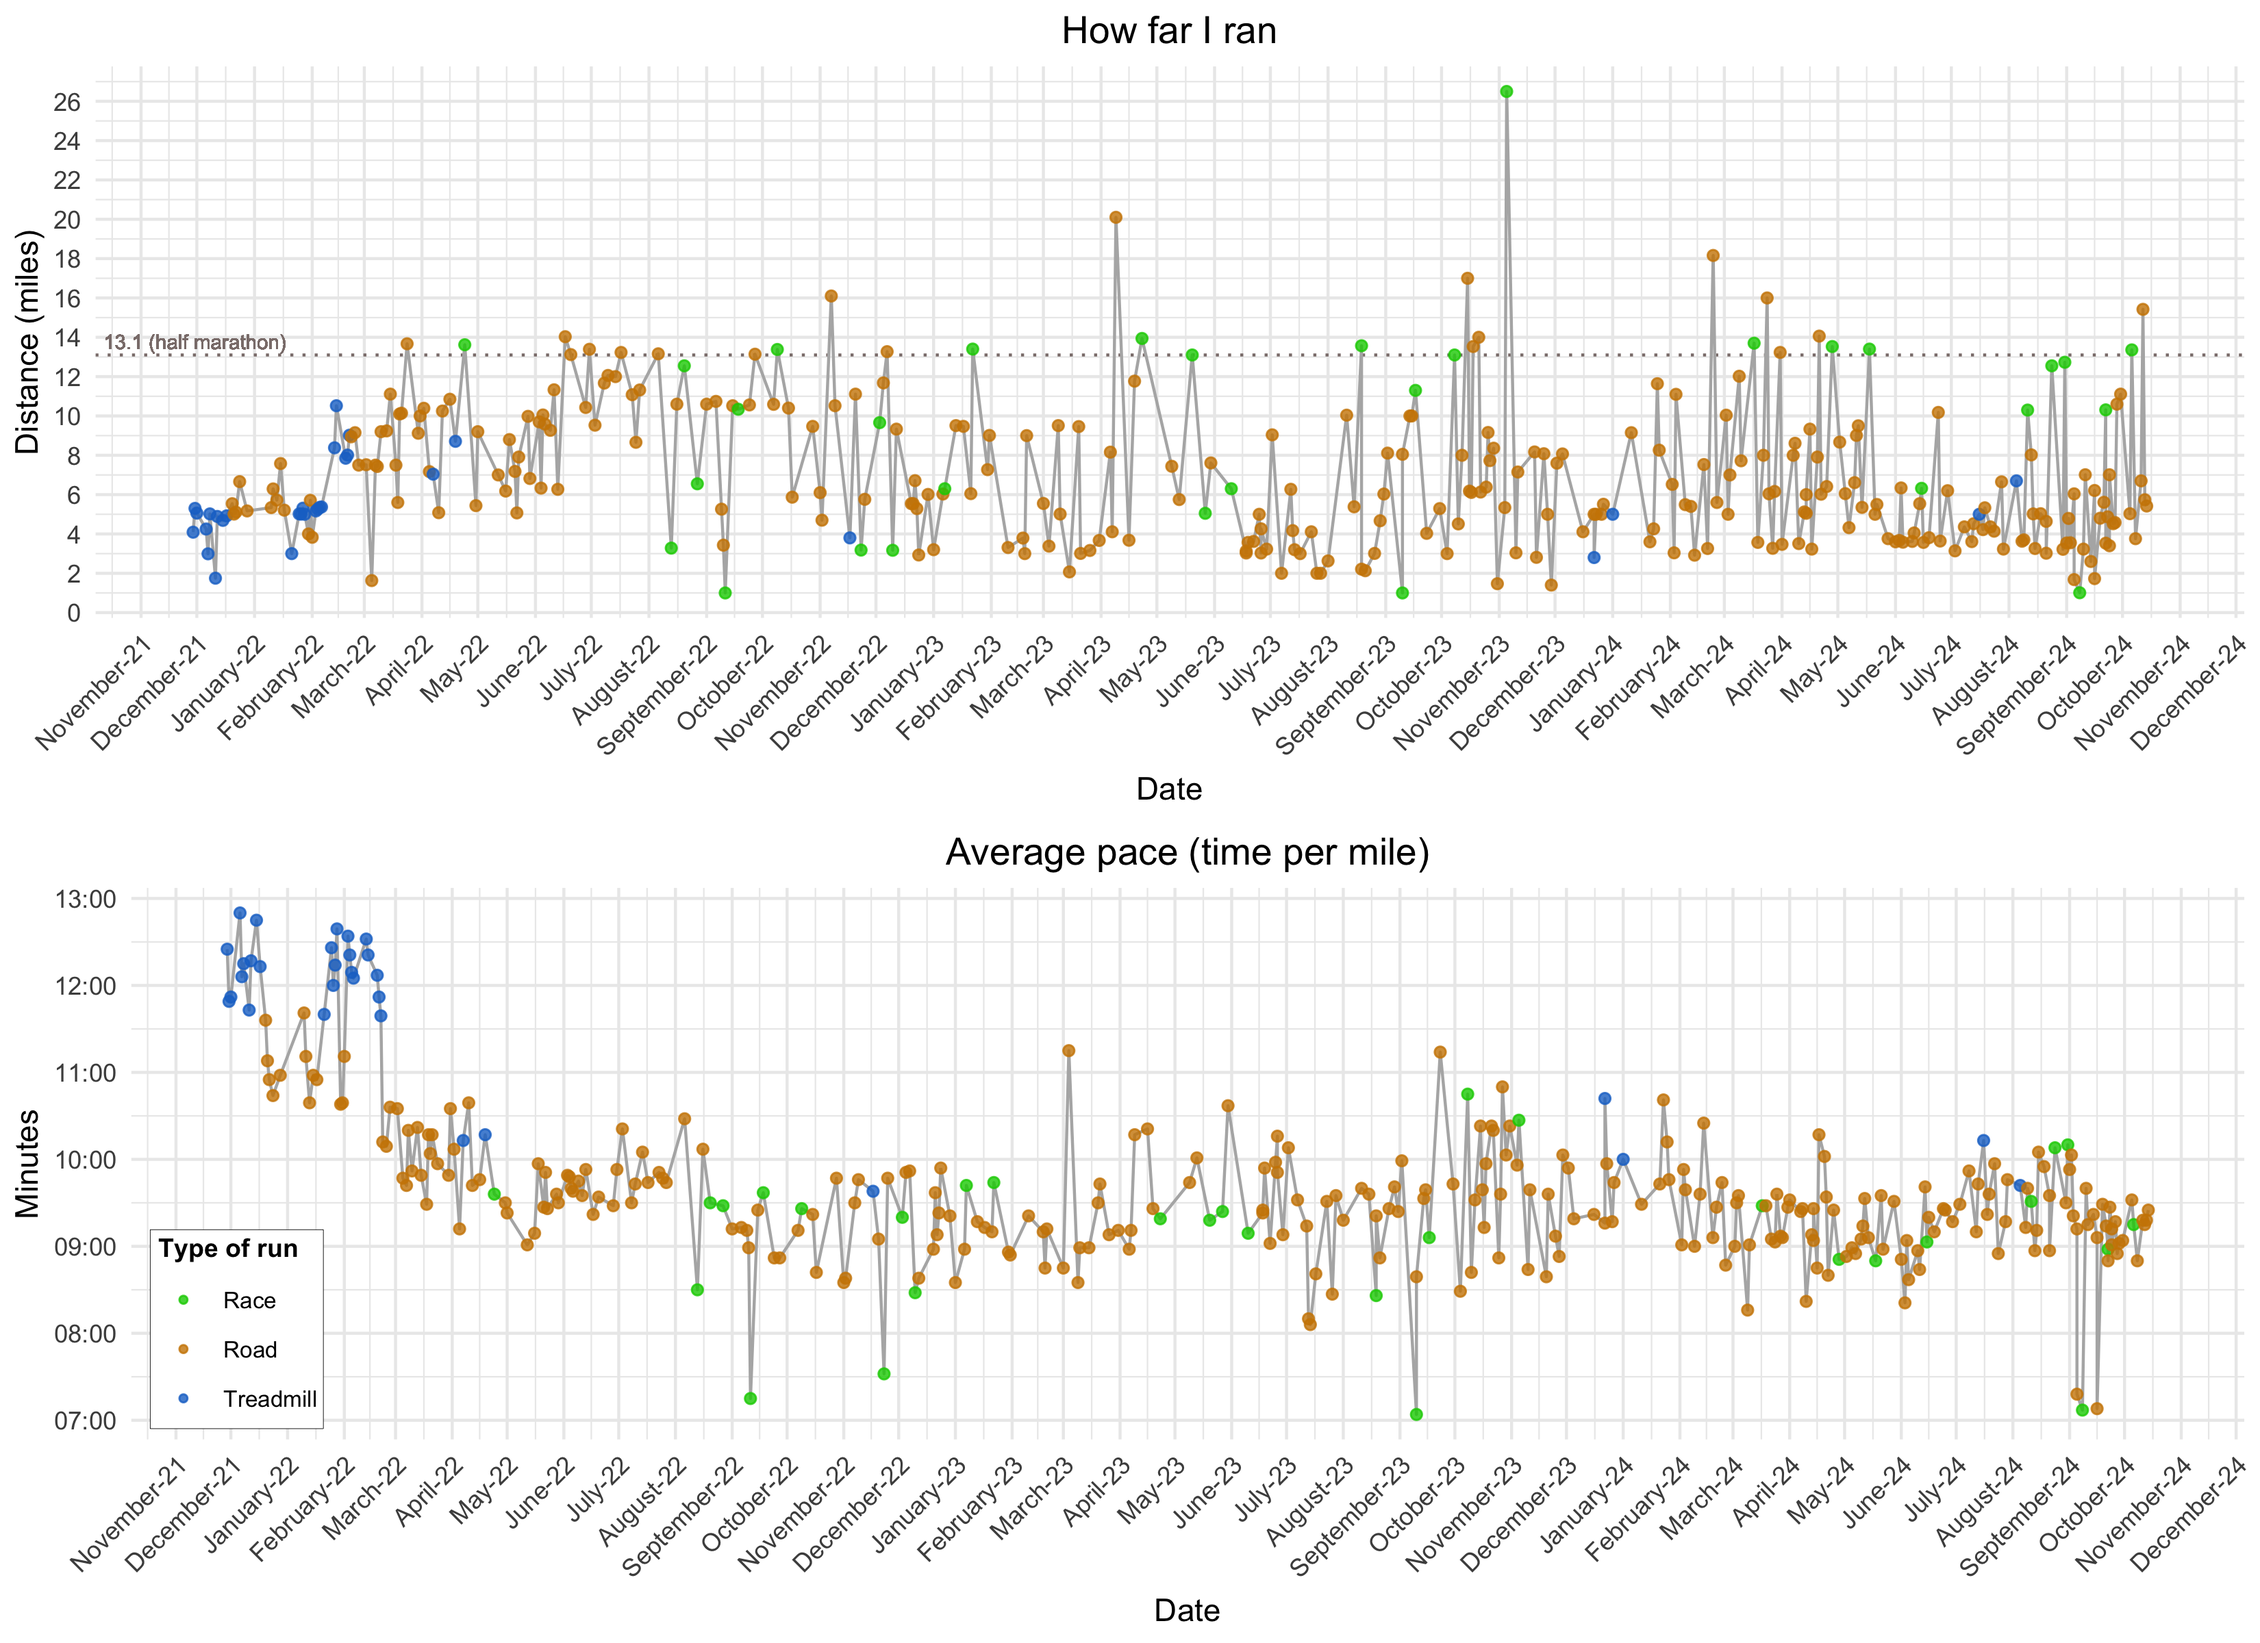
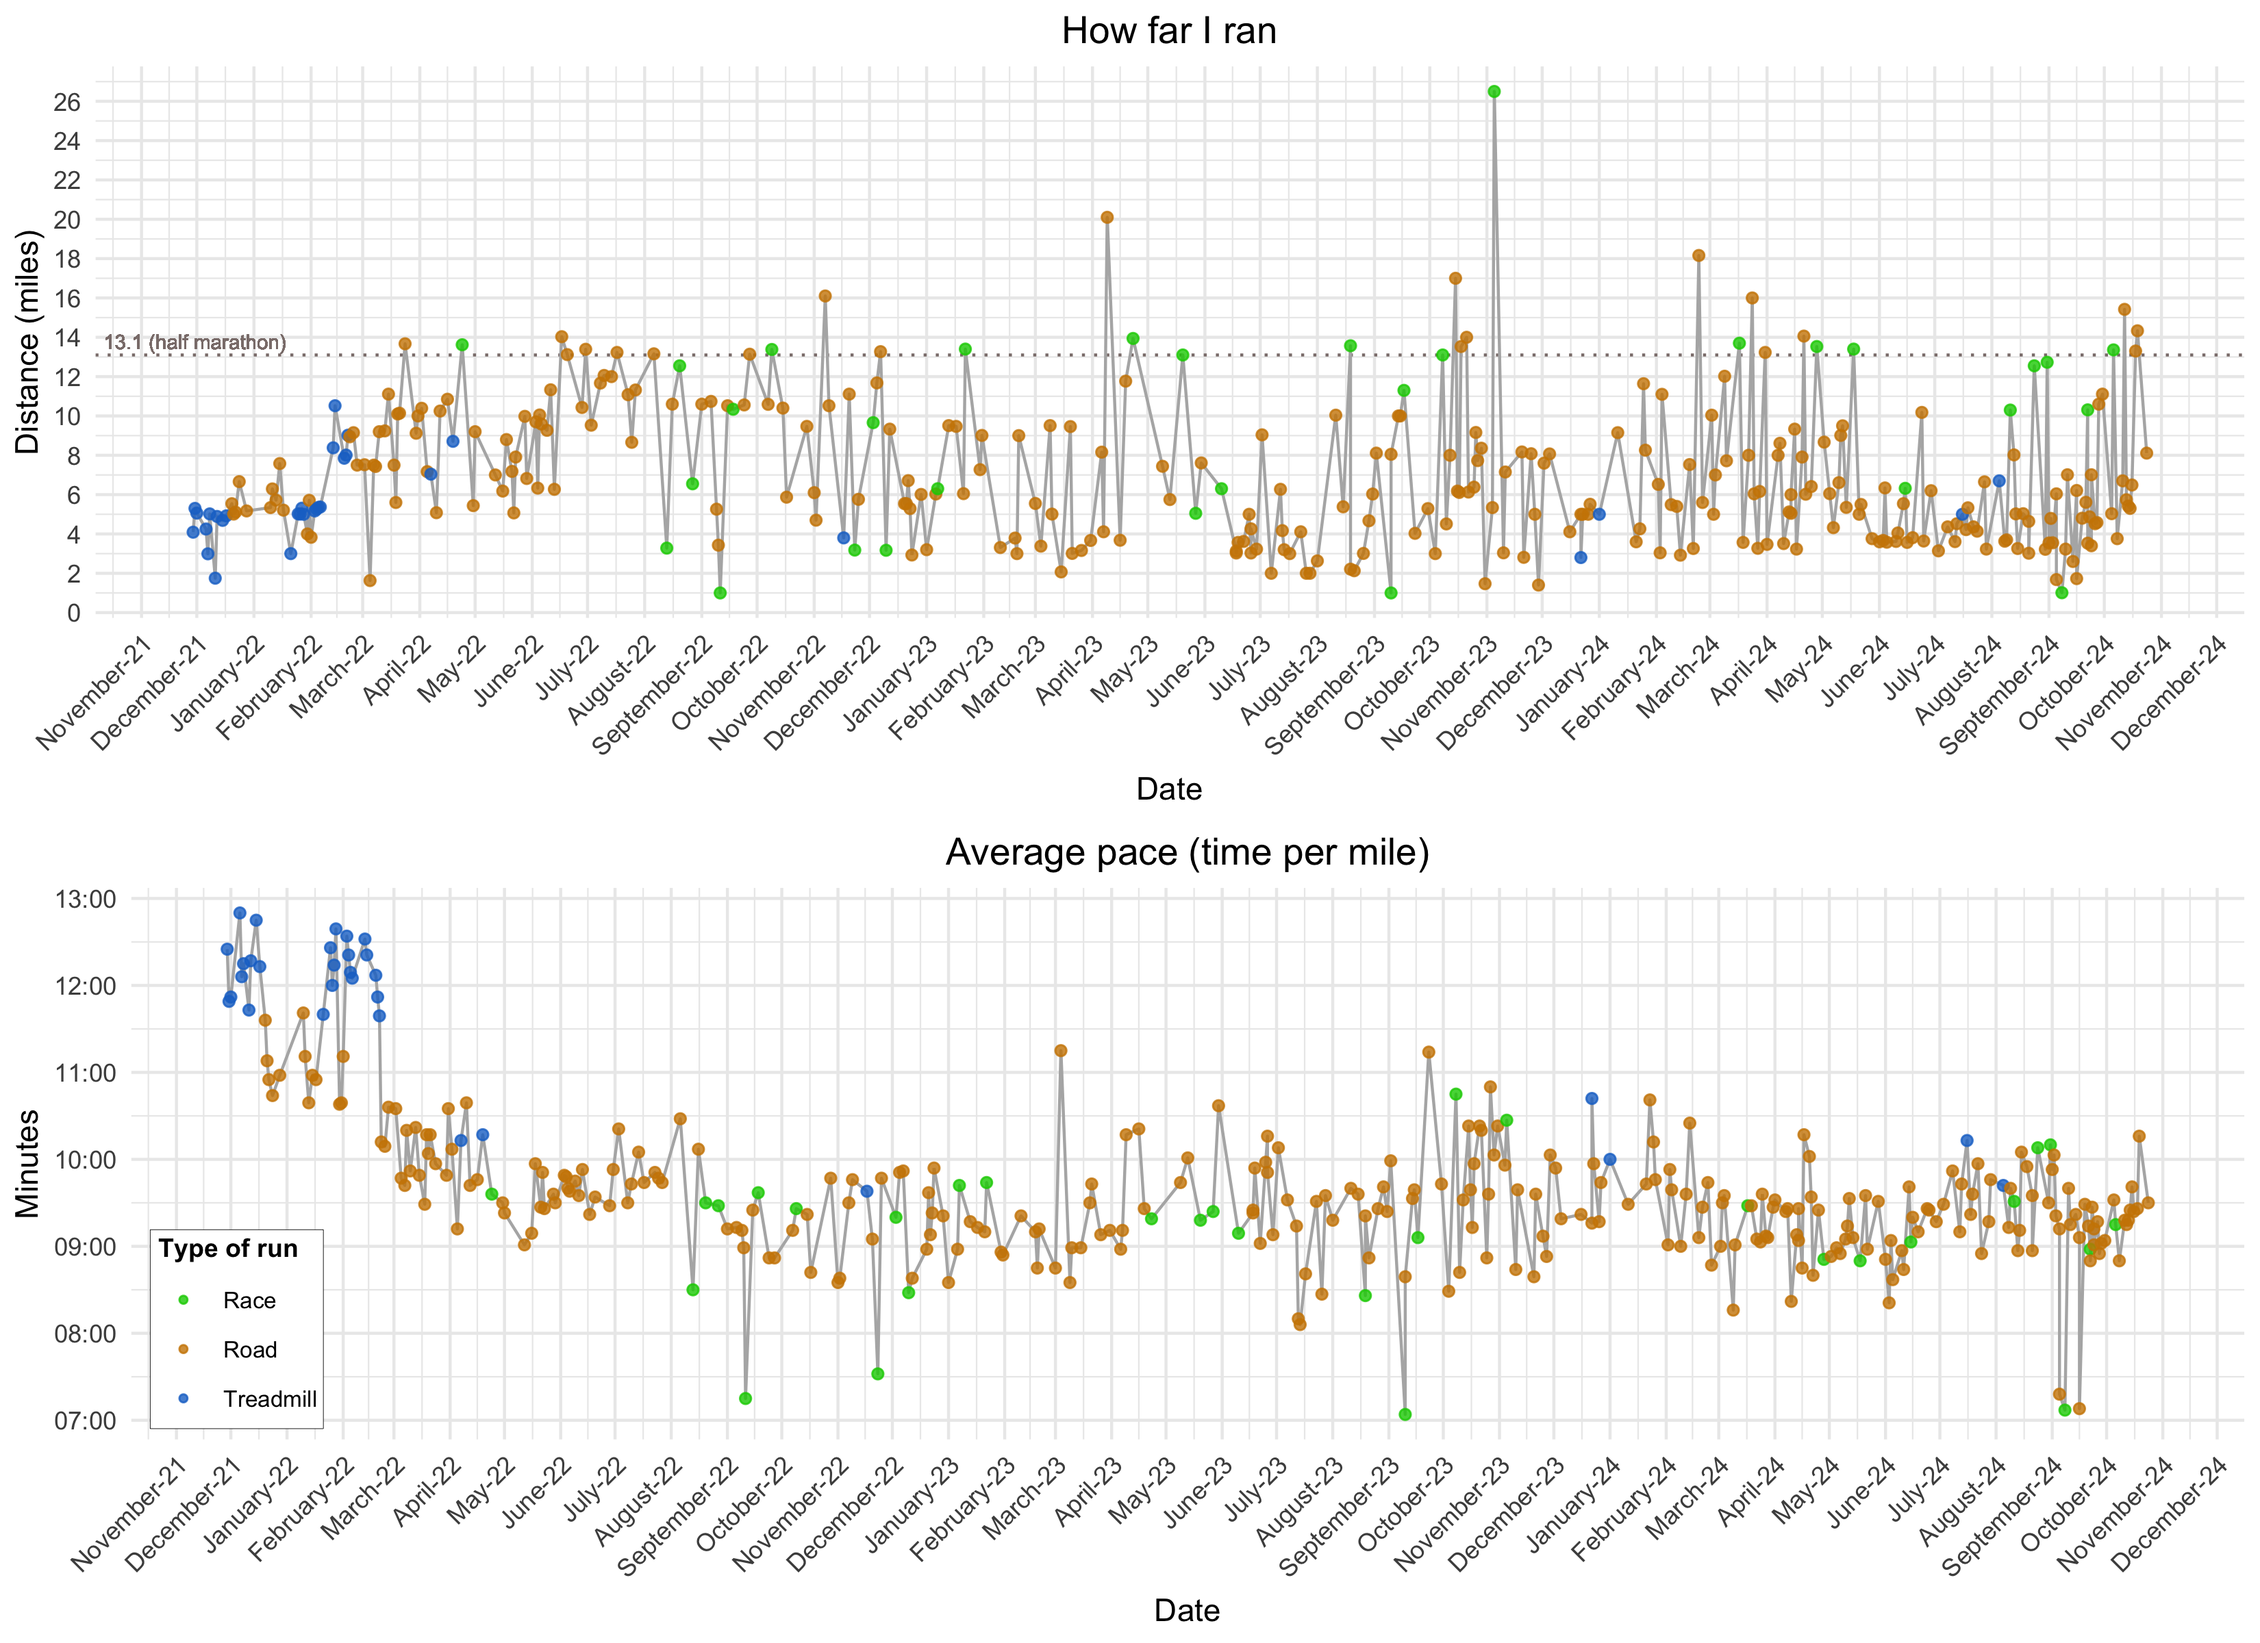
10/15/24 - 10/24/24

diff --git a/README.md b/README.md
@@ -41,7 +41,7 @@ Total miles since 11/29/21:
 sum(runningData$Miles)
 ```
 
-    ## [1] 2419.62
+    ## [1] 2467.15
 
 Average distance over last ten runs:
 
@@ -49,4 +49,4 @@ Average distance over last ten runs:
 mean(tail(runningData$Miles, 10))
 ```
 
-    ## [1] 8.172
+    ## [1] 8.457
